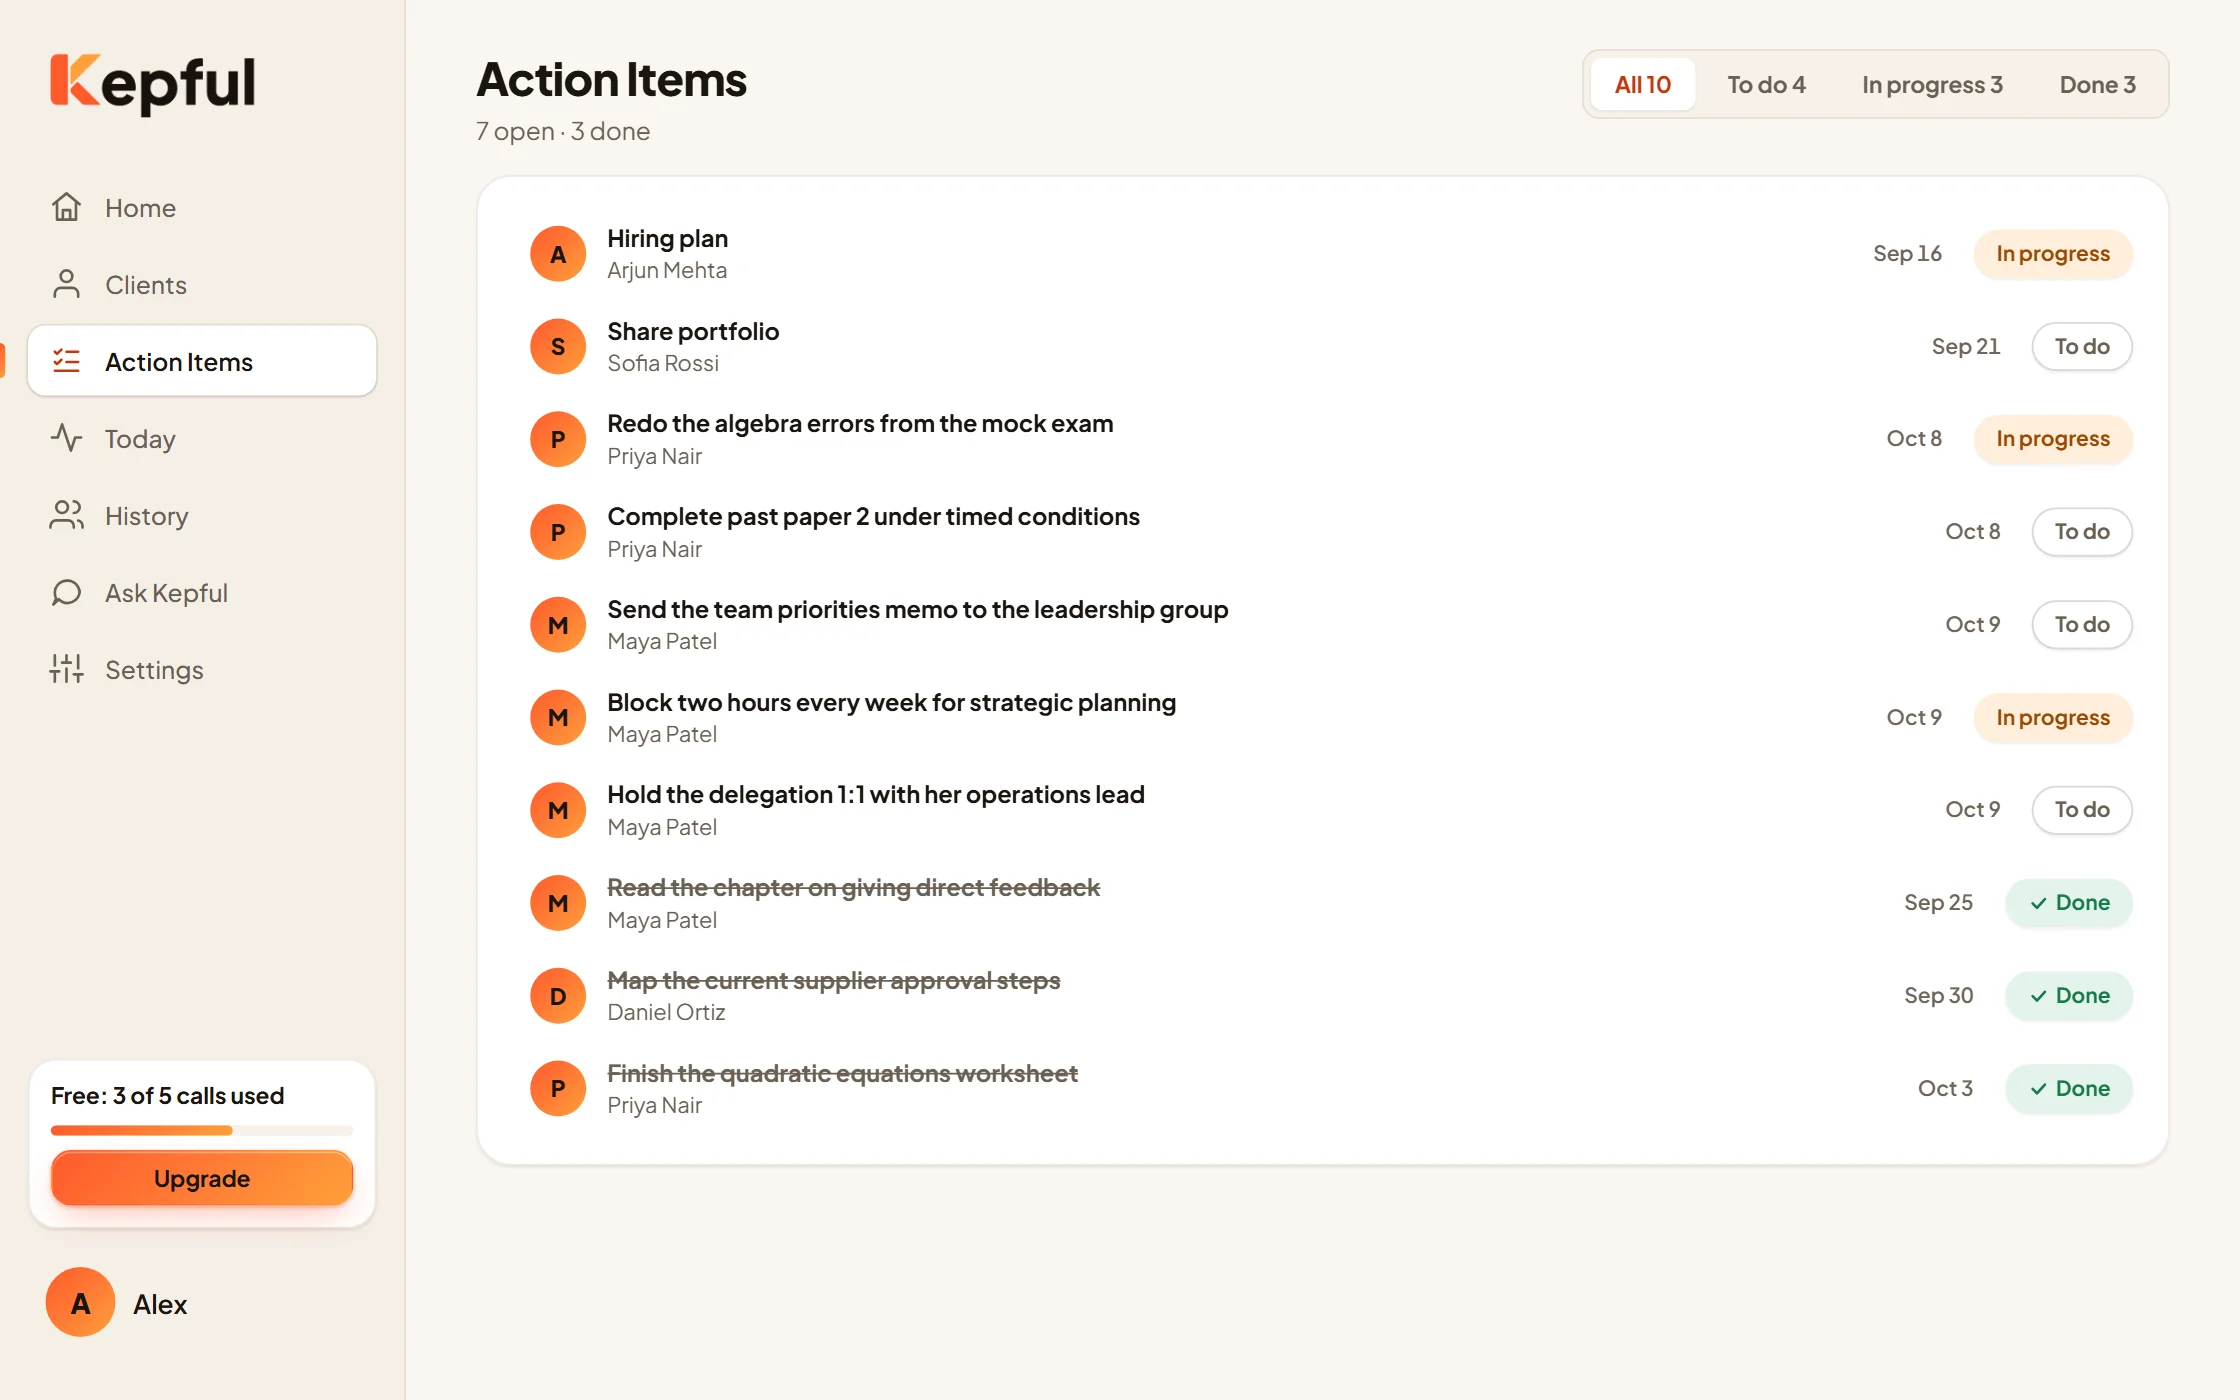
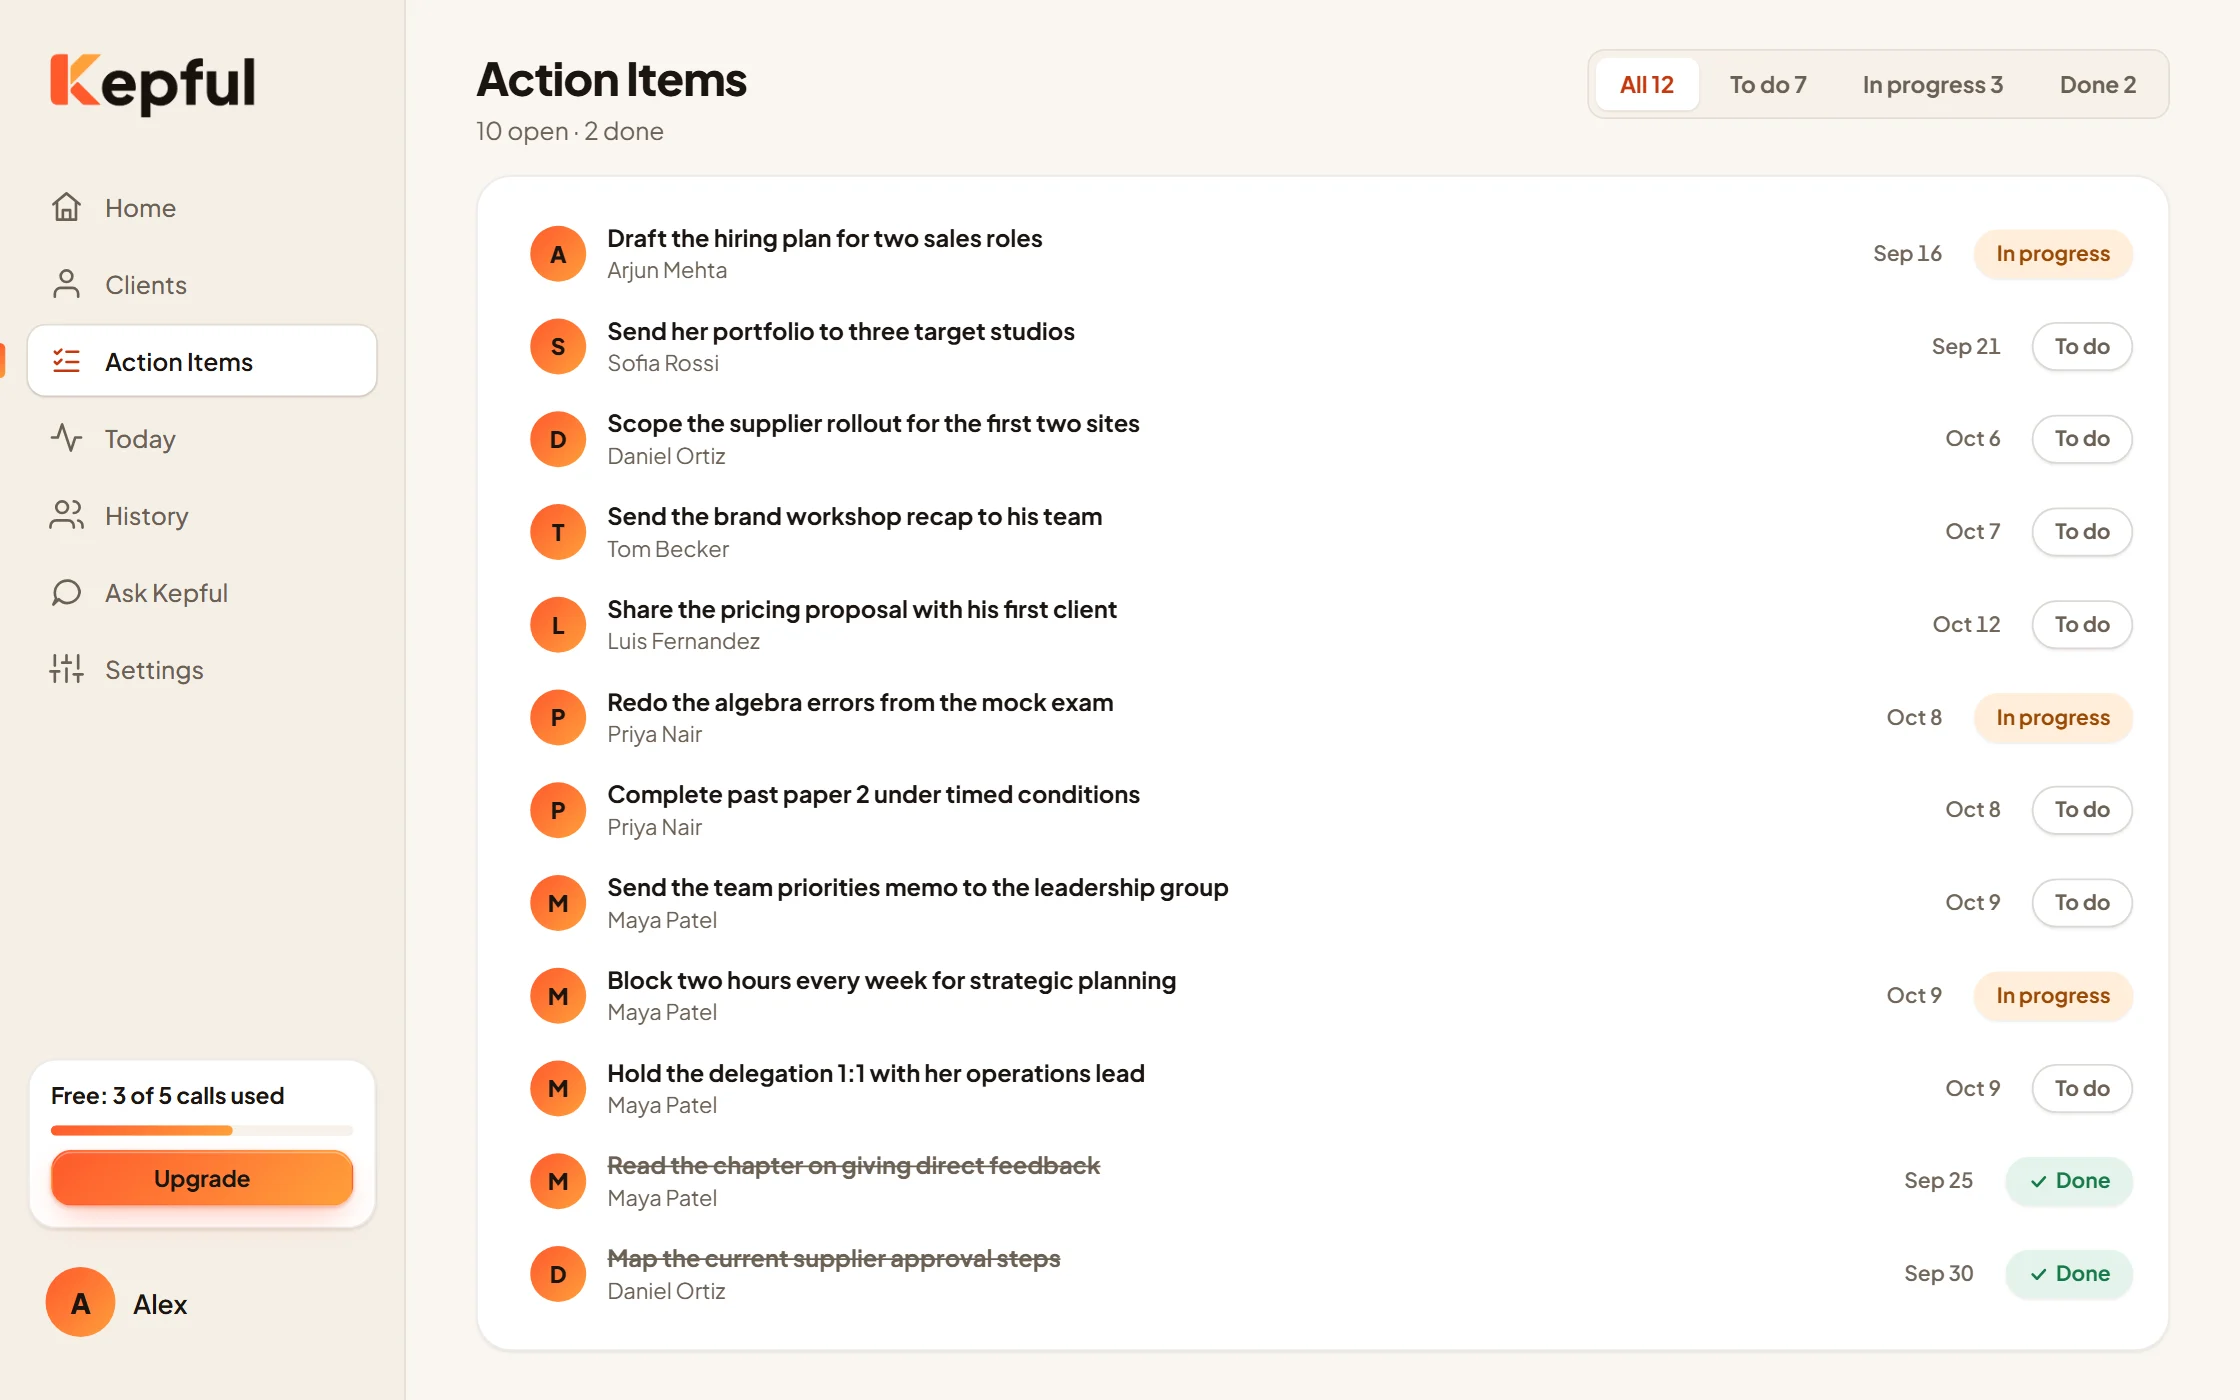
Landing page: Languages and Templates showcase tabs, sharper premium screenshots, refreshed hero image, consistent og:image meta across legal pages

diff --git a/index.html b/index.html
@@ -57,7 +57,7 @@
       <a class="text-link" href="#how-it-works">See how it works</a>
     </div>
     <ul class="facts"><li>Works with calls in your browser</li><li>Sign in with your email, no password</li><li>Free to start, no card</li></ul>
-    <div class="hero-shot"><div class="frame frame-popup"><picture><source srcset="/assets/img/popup.webp" type="image/webp"><img src="/assets/img/popup.png" width="776" height="1290" alt="The Kepful popup before a call with Maya Patel: last time she agreed Q4 priorities and a planning block, three open tasks, and three things to bring up." fetchpriority="high"></picture></div></div>
+    <div class="hero-shot"><div class="frame frame-popup"><picture><source srcset="/assets/img/popup-sm.webp 776w, /assets/img/popup.webp 1261w" sizes="(max-width: 700px) 340px, 420px" type="image/webp"><img src="/assets/img/popup.png" width="776" height="1430" alt="The Kepful popup before a call with Maya Patel: last time she agreed Q4 priorities but was nervous to delegate, three open tasks, and three things to bring up. Language is set to Auto-detect, Template to Coaching session, the microphone option is on, and Start Recording is ready." fetchpriority="high"></picture></div></div>
   </div>
 </section>
 
@@ -96,6 +96,8 @@
       <button class="tab" role="tab" id="tab-calls" aria-controls="panel-calls" aria-selected="false" tabindex="-1" type="button">Calls</button>
       <button class="tab" role="tab" id="tab-clients" aria-controls="panel-clients" aria-selected="false" tabindex="-1" type="button">Clients<span class="tab-flag">Core</span></button>
       <button class="tab" role="tab" id="tab-ask" aria-controls="panel-ask" aria-selected="false" tabindex="-1" type="button">Ask Kepful</button>
+      <button class="tab" role="tab" id="tab-languages" aria-controls="panel-languages" aria-selected="false" tabindex="-1" type="button">Languages</button>
+      <button class="tab" role="tab" id="tab-templates" aria-controls="panel-templates" aria-selected="false" tabindex="-1" type="button">Templates</button>
       <button class="tab" role="tab" id="tab-plans" aria-controls="panel-plans" aria-selected="false" tabindex="-1" type="button">Plans</button>
     </div>
 
@@ -109,7 +111,7 @@
         <div class="subtabs" role="group" aria-label="Today screens"><button type="button" class="subtab" aria-pressed="true" data-shot="0">Recording</button><button type="button" class="subtab" aria-pressed="false" data-shot="1">Processing</button></div>
         <div class="win"><div class="win-bar" aria-hidden="true"><i></i><i></i><i></i><span>Kepful &middot; Today</span></div>
           <div class="shots">
-            <button class="shot is-on" type="button" data-lightbox data-full="/assets/img/shot-today-recording.webp" data-title="Today: recording" aria-label="Enlarge screenshot: recording a call"><img src="/assets/img/shot-today-recording-sm.webp" srcset="/assets/img/shot-today-recording-sm.webp 1120w, /assets/img/shot-today-recording.webp 2240w" sizes="(min-width: 1100px) 700px, 92vw" width="2240" height="1400" alt="The Kepful popup open during a call with Maya Patel, recording for 23 minutes, on top of the Today screen of the dashboard." loading="lazy" decoding="async"></button>
+            <button class="shot is-on" type="button" data-lightbox data-full="/assets/img/shot-today-recording.webp" data-title="Today: recording" aria-label="Enlarge screenshot: recording a call"><img src="/assets/img/shot-today-recording-sm.webp" srcset="/assets/img/shot-today-recording-sm.webp 1120w, /assets/img/shot-today-recording.webp 2240w" sizes="(min-width: 1100px) 700px, 92vw" width="2240" height="1400" alt="The Kepful popup open during a call with Maya Patel, recording for 23 minutes with live level meters for the call and her microphone, on top of the Today screen of the dashboard." loading="lazy" decoding="async"></button>
             <button class="shot" type="button" data-lightbox data-full="/assets/img/shot-today-processing.webp" data-title="Today: processing" aria-label="Enlarge screenshot: processing a call" tabindex="-1"><img src="/assets/img/shot-today-processing-sm.webp" srcset="/assets/img/shot-today-processing-sm.webp 1120w, /assets/img/shot-today-processing.webp 2240w" sizes="(min-width: 1100px) 700px, 92vw" width="2240" height="1400" alt="The Today screen right after the call: the audio is transcribed, the summary is being written, and the follow-up email and saving steps are waiting." loading="lazy" decoding="async"></button>
           </div>
         </div>
@@ -127,7 +129,7 @@
         <div class="win"><div class="win-bar" aria-hidden="true"><i></i><i></i><i></i><span>Kepful &middot; Calls</span></div>
           <div class="shots">
             <button class="shot is-on" type="button" data-lightbox data-full="/assets/img/shot-call-finished.webp" data-title="A finished call" aria-label="Enlarge screenshot: a finished call"><img src="/assets/img/shot-call-finished-sm.webp" srcset="/assets/img/shot-call-finished-sm.webp 1120w, /assets/img/shot-call-finished.webp 2240w" sizes="(min-width: 1100px) 700px, 92vw" width="2240" height="1400" alt="A finished call with Maya Patel: the transcript, a short summary, three action items, and a follow-up email draft with Copy and Open in Gmail buttons." loading="lazy" decoding="async"></button>
-            <button class="shot" type="button" data-lightbox data-full="/assets/img/shot-actions.webp" data-title="Action items" aria-label="Enlarge screenshot: action items" tabindex="-1"><img src="/assets/img/shot-actions-sm.webp" srcset="/assets/img/shot-actions-sm.webp 1120w, /assets/img/shot-actions.webp 2240w" sizes="(min-width: 1100px) 700px, 92vw" width="2240" height="1400" alt="The Action Items view listing ten tasks across clients with their date and status: To do, In progress or Done." loading="lazy" decoding="async"></button>
+            <button class="shot" type="button" data-lightbox data-full="/assets/img/shot-actions.webp" data-title="Action items" aria-label="Enlarge screenshot: action items" tabindex="-1"><img src="/assets/img/shot-actions-sm.webp" srcset="/assets/img/shot-actions-sm.webp 1120w, /assets/img/shot-actions.webp 2240w" sizes="(min-width: 1100px) 700px, 92vw" width="2240" height="1400" alt="The Action Items view listing twelve tasks across clients with their date and status: To do, In progress or Done." loading="lazy" decoding="async"></button>
           </div>
         </div>
       </div>
@@ -160,6 +162,36 @@
         <div class="win"><div class="win-bar" aria-hidden="true"><i></i><i></i><i></i><span>Kepful &middot; Ask Kepful</span></div>
           <div class="shots">
             <button class="shot is-on" type="button" data-lightbox data-full="/assets/img/shot-ask.webp" data-title="Ask Kepful" aria-label="Enlarge screenshot: Ask Kepful"><img src="/assets/img/shot-ask-sm.webp" srcset="/assets/img/shot-ask-sm.webp 1120w, /assets/img/shot-ask.webp 2240w" sizes="(min-width: 1100px) 700px, 92vw" width="2240" height="1400" alt="Ask Kepful answering what Maya committed to last time and what she is most nervous about, with the date of the call shown next to each answer." loading="lazy" decoding="async"></button>
+          </div>
+        </div>
+      </div>
+    </div>
+
+    <div class="panel" role="tabpanel" id="panel-languages" aria-labelledby="tab-languages" hidden>
+      <div class="panel-copy">
+        <h3>Calls in 99 languages</h3>
+        <p>Kepful transcribes calls in 99 languages. Leave it on Auto-detect and it works out the language for you, or pick one before you record. Accuracy varies by language.</p>
+        <ul class="ticks"><li>A searchable language picker in the popup</li><li>Every call shows the language it was transcribed in</li><li>If Kepful cannot tell, you pick the language and try again</li></ul>
+      </div>
+      <div class="panel-stage">
+        <div class="win"><div class="win-bar" aria-hidden="true"><i></i><i></i><i></i><span>Kepful &middot; Languages</span></div>
+          <div class="shots">
+            <button class="shot is-on" type="button" data-lightbox data-full="/assets/img/shot-language-call.webp" data-title="Language of a call" aria-label="Enlarge screenshot: a call transcribed in Spanish"><img src="/assets/img/shot-language-call-sm.webp" srcset="/assets/img/shot-language-call-sm.webp 1120w, /assets/img/shot-language-call.webp 2240w" sizes="(min-width: 1100px) 700px, 92vw" width="2240" height="1400" alt="A finished call with Luis Fernandez in History, marked Language: Spanish (detected automatically), with the summary, decision, action item and follow-up email written in Spanish." loading="lazy" decoding="async"></button>
+          </div>
+        </div>
+      </div>
+    </div>
+
+    <div class="panel" role="tabpanel" id="panel-templates" aria-labelledby="tab-templates" hidden>
+      <div class="panel-copy">
+        <h3>Notes that fit the job</h3>
+        <p>Pick a template before you record: coaching, sales, consulting, interview or your own. Kepful organises the notes under headings that fit the job, and every fact comes only from the call.</p>
+        <ul class="ticks"><li>Coaching, sales, consulting, interview or a custom template</li><li>Headings that fit the job, such as Client goals, Wins and Blocks</li><li>Run a saved call again with a different template</li></ul>
+      </div>
+      <div class="panel-stage">
+        <div class="win"><div class="win-bar" aria-hidden="true"><i></i><i></i><i></i><span>Kepful &middot; Templates</span></div>
+          <div class="shots">
+            <button class="shot is-on" type="button" data-lightbox data-full="/assets/img/shot-template-call.webp" data-title="A call written with a template" aria-label="Enlarge screenshot: a call written with the Coaching template"><img src="/assets/img/shot-template-call-sm.webp" srcset="/assets/img/shot-template-call-sm.webp 1120w, /assets/img/shot-template-call.webp 2240w" sizes="(min-width: 1100px) 700px, 92vw" width="2240" height="1400" alt="A finished call marked Template: Coaching session, with the summary organised under Client goals, Wins, Blocks, Insights, Commitments and homework, and Next-session focus, followed by the action items and a follow-up email draft." loading="lazy" decoding="async"></button>
           </div>
         </div>
       </div>

diff --git a/refund/index.html b/refund/index.html
@@ -15,14 +15,14 @@
 <meta property="og:title" content="Refund and Cancellation Policy | Kepful">
 <meta property="og:description" content="Cancel Kepful Pro any time, with a full refund within 14 days of your first payment.">
 <meta property="og:url" content="https://kepful.app/refund/">
-<meta property="og:image" content="https://kepful.app/assets/img/og.png?v=kepful">
+<meta property="og:image" content="https://kepful.app/assets/img/og.png?v=2">
 <meta property="og:image:width" content="1200">
 <meta property="og:image:height" content="630">
-<meta property="og:image:alt" content="Kepful: remember every client, call by call, with the pre-call brief shown in the Kepful popup.">
+<meta property="og:image:alt" content="Kepful: remember every client, call by call, with a Kepful client profile for Maya Patel showing her goal, blockers, wins and action items.">
 <meta name="twitter:card" content="summary_large_image">
 <meta name="twitter:title" content="Refund and Cancellation Policy | Kepful">
 <meta name="twitter:description" content="Cancel Kepful Pro any time, with a full refund within 14 days of your first payment.">
-<meta name="twitter:image" content="https://kepful.app/assets/img/og.png?v=kepful">
+<meta name="twitter:image" content="https://kepful.app/assets/img/og.png?v=2">
 <link rel="preload" href="/assets/fonts/plus-jakarta-sans-latin.woff2" as="font" type="font/woff2" crossorigin>
 <link rel="stylesheet" href="/assets/site.css">
 <script>document.documentElement.classList.add("js")</script>

diff --git a/privacy/index.html b/privacy/index.html
@@ -15,14 +15,14 @@
 <meta property="og:title" content="Privacy Policy | Kepful">
 <meta property="og:description" content="How Kepful handles your data: what it collects, why, who processes it, and the control you have.">
 <meta property="og:url" content="https://kepful.app/privacy/">
-<meta property="og:image" content="https://kepful.app/assets/img/og.png?v=kepful">
+<meta property="og:image" content="https://kepful.app/assets/img/og.png?v=2">
 <meta property="og:image:width" content="1200">
 <meta property="og:image:height" content="630">
-<meta property="og:image:alt" content="Kepful: remember every client, call by call, with the pre-call brief shown in the Kepful popup.">
+<meta property="og:image:alt" content="Kepful: remember every client, call by call, with a Kepful client profile for Maya Patel showing her goal, blockers, wins and action items.">
 <meta name="twitter:card" content="summary_large_image">
 <meta name="twitter:title" content="Privacy Policy | Kepful">
 <meta name="twitter:description" content="How Kepful handles your data: what it collects, why, who processes it, and the control you have.">
-<meta name="twitter:image" content="https://kepful.app/assets/img/og.png?v=kepful">
+<meta name="twitter:image" content="https://kepful.app/assets/img/og.png?v=2">
 <link rel="preload" href="/assets/fonts/plus-jakarta-sans-latin.woff2" as="font" type="font/woff2" crossorigin>
 <link rel="stylesheet" href="/assets/site.css">
 <script>document.documentElement.classList.add("js")</script>

diff --git a/terms/index.html b/terms/index.html
@@ -15,14 +15,14 @@
 <meta property="og:title" content="Terms of Service | Kepful">
 <meta property="og:description" content="The terms for using Kepful, the Chrome extension for client calls.">
 <meta property="og:url" content="https://kepful.app/terms/">
-<meta property="og:image" content="https://kepful.app/assets/img/og.png?v=kepful">
+<meta property="og:image" content="https://kepful.app/assets/img/og.png?v=2">
 <meta property="og:image:width" content="1200">
 <meta property="og:image:height" content="630">
-<meta property="og:image:alt" content="Kepful: remember every client, call by call, with the pre-call brief shown in the Kepful popup.">
+<meta property="og:image:alt" content="Kepful: remember every client, call by call, with a Kepful client profile for Maya Patel showing her goal, blockers, wins and action items.">
 <meta name="twitter:card" content="summary_large_image">
 <meta name="twitter:title" content="Terms of Service | Kepful">
 <meta name="twitter:description" content="The terms for using Kepful, the Chrome extension for client calls.">
-<meta name="twitter:image" content="https://kepful.app/assets/img/og.png?v=kepful">
+<meta name="twitter:image" content="https://kepful.app/assets/img/og.png?v=2">
 <link rel="preload" href="/assets/fonts/plus-jakarta-sans-latin.woff2" as="font" type="font/woff2" crossorigin>
 <link rel="stylesheet" href="/assets/site.css">
 <script>document.documentElement.classList.add("js")</script>
